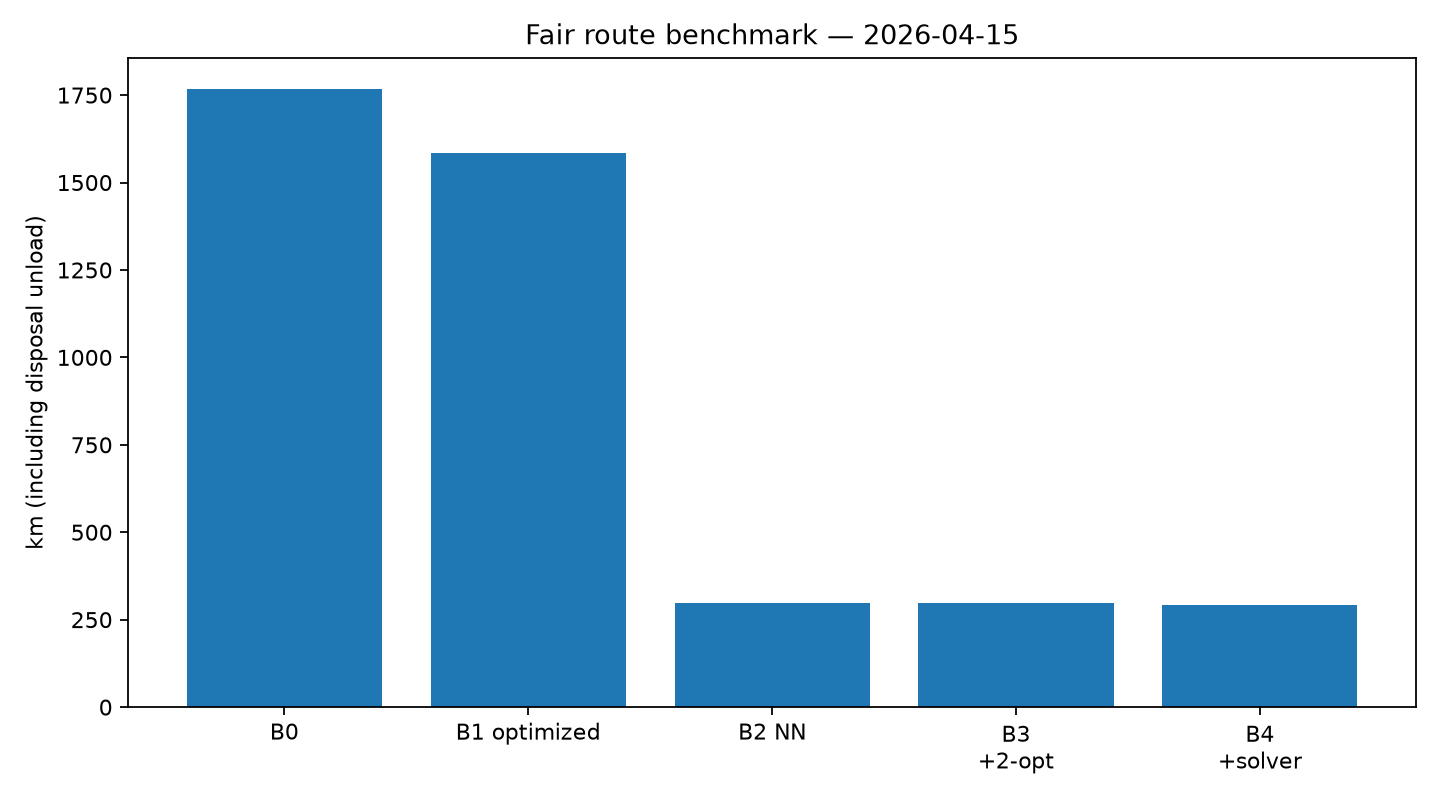
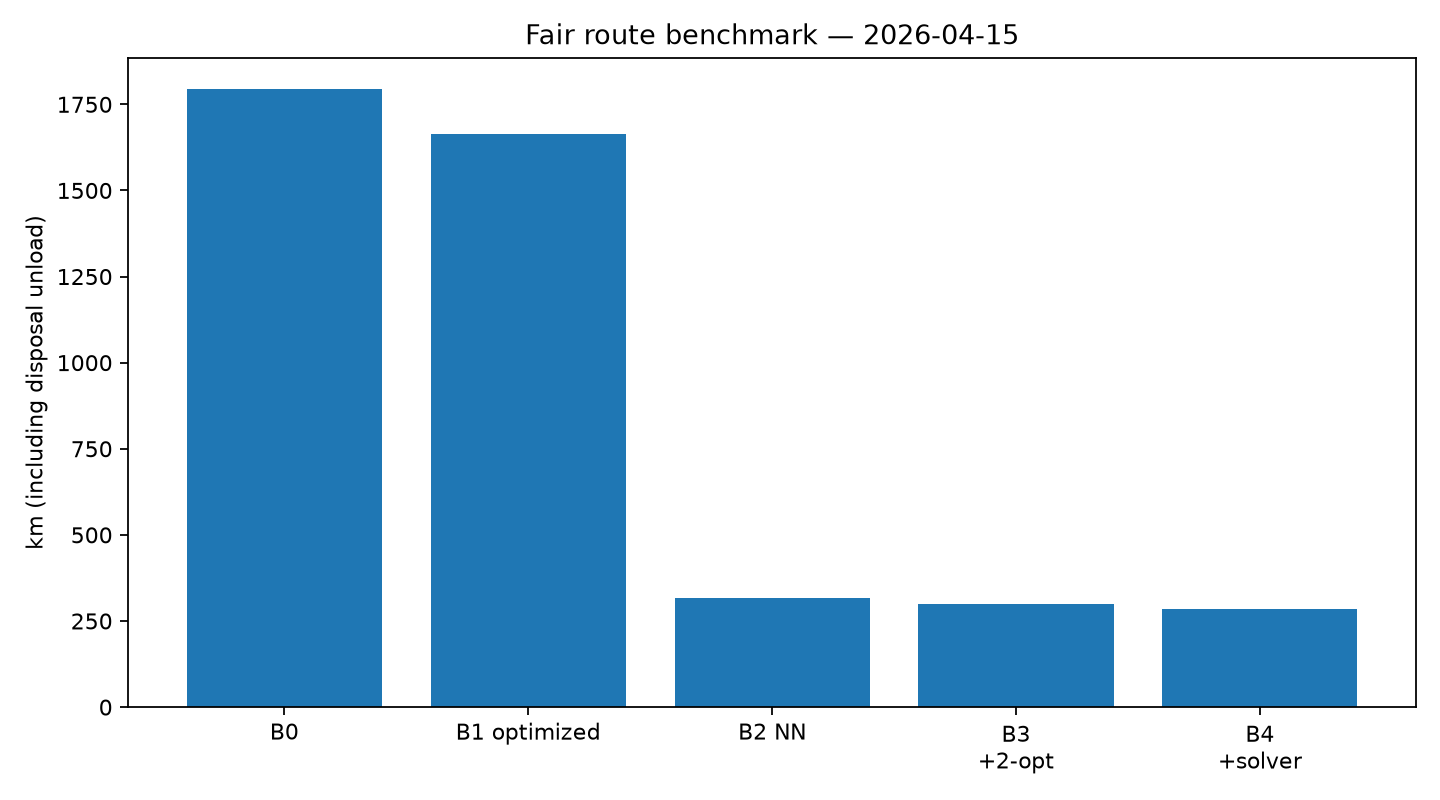
fix(benchmark): same density per colour and 26 m3 volume limit as routing
Round packing and the OR-Tools model now respect vehicle volume as well
as weight, and mass uses the per-colour density, so the benchmark rules
match routing.build_route. Results regenerated for 4 dates x 3 seeds.

diff --git a/scripts/benchmark.py b/scripts/benchmark.py
@@ -14,7 +14,13 @@ import numpy as np
 import pandas as pd
 
 from prezero import features, locations, scoring
-from prezero.routing import OperationalConfig, haversine_km, road_distance_km, drive_time_min
+from prezero.routing import (
+    OperationalConfig,
+    density_for,
+    drive_time_min,
+    haversine_km,
+    road_distance_km,
+)
 
 try:
     from ortools.constraint_solver import pywrapcp, routing_enums_pb2
@@ -33,12 +39,13 @@ def _physical_sites(scored: pd.DataFrame, locs: pd.DataFrame, cfg: OperationalCo
     """Aggregate all material IDs sharing a coordinate into one physical stop."""
     work = scored.copy()
     work["critical"] = work.get("critical", work["score"] >= 0.7).astype(bool)
-    work["mass_kg"] = (
-        work.get("est_fill_level", work["last_fill_level"]).astype(float) / 100.0
+    work["volume_m3"] = (
+        work.get("est_fill_level", work["last_fill_level"]).astype(float).clip(lower=0.0) / 100.0
         * cfg.container_volume_m3
-        * cfg.density_kg_per_m3
     )
+    work["mass_kg"] = work["volume_m3"] * work["material_type"].map(lambda m: density_for(cfg, m))
     work["critical_mass_kg"] = work["mass_kg"].where(work["critical"], 0.0)
+    work["critical_volume_m3"] = work["volume_m3"].where(work["critical"], 0.0)
     merged = work.merge(locs[["Location_id", "lat", "lon"]], on="Location_id", how="inner")
     merged["lat"] = merged["lat"].round(6)
     merged["lon"] = merged["lon"].round(6)
@@ -52,6 +59,8 @@ def _physical_sites(scored: pd.DataFrame, locs: pd.DataFrame, cfg: OperationalCo
             score=("score", "max"),
             mass_kg=("mass_kg", "sum"),
             critical_mass_kg=("critical_mass_kg", "sum"),
+            volume_m3=("volume_m3", "sum"),
+            critical_volume_m3=("critical_volume_m3", "sum"),
         )
         .sort_values(["id", "lat", "lon"])
         .reset_index(drop=True)
@@ -123,6 +132,7 @@ def _solver_order(sites: pd.DataFrame, cfg: OperationalConfig) -> list[int] | No
     vehicles = max(
         1,
         math.ceil(float(sites["critical_mass_kg"].sum()) / cfg.vehicle_max_weight_kg),
+        math.ceil(float(sites["critical_volume_m3"].sum()) / cfg.vehicle_max_volume_m3),
         math.ceil(len(sites) * (cfg.stop_setup_min + cfg.lift_time_per_bin_min) / (cfg.max_shift_hours * 60)),
     )
     manager = pywrapcp.RoutingIndexManager(n, vehicles, 0)
@@ -137,6 +147,12 @@ def _solver_order(sites: pd.DataFrame, cfg: OperationalConfig) -> list[int] | No
     demands = [0] + [round(float(x)) for x in sites["critical_mass_kg"]]
     demand_cb = routing.RegisterUnaryTransitCallback(lambda i: demands[manager.IndexToNode(i)])
     routing.AddDimensionWithVehicleCapacity(demand_cb, 0, [round(cfg.vehicle_max_weight_kg)] * vehicles, True, "Weight")
+    # Volume in litres so the solver works with integers.
+    volumes = [0] + [round(float(x) * 1000) for x in sites["critical_volume_m3"]]
+    volume_cb = routing.RegisterUnaryTransitCallback(lambda i: volumes[manager.IndexToNode(i)])
+    routing.AddDimensionWithVehicleCapacity(
+        volume_cb, 0, [round(cfg.vehicle_max_volume_m3 * 1000)] * vehicles, True, "Volume"
+    )
     service = [0] + [
         round(cfg.stop_setup_min + max(1, int(x)) * cfg.lift_time_per_bin_min)
         for x in sites["critical_bins"]
@@ -183,16 +199,20 @@ def _plan(order: list[int], sites: pd.DataFrame, cfg: OperationalConfig) -> dict
     rounds: list[list[int]] = []
     current: list[int] = []
     weight = 0.0
+    volume = 0.0
     for idx in order:
         mass = float(sites.at[idx, "critical_mass_kg"])
+        vol = float(sites.at[idx, "critical_volume_m3"])
         if current and (
             weight + mass > cfg.vehicle_max_weight_kg
+            or volume + vol > cfg.vehicle_max_volume_m3
             or projected_hours(current + [idx]) > cfg.max_shift_hours
         ):
             rounds.append(current)
-            current, weight = [], 0.0
+            current, weight, volume = [], 0.0, 0.0
         current.append(idx)
         weight += mass
+        volume += vol
     if current:
         rounds.append(current)
 
@@ -232,7 +252,9 @@ def run_case(date: str, seed: int, cfg: OperationalConfig) -> list[dict[str, Any
     critical = sites[sites.critical].copy().reset_index(drop=True)
     # Status quo empties every bin: load all mass and lift all bins, not only critical ones.
     all_sites = sites.assign(
-        critical_mass_kg=sites["mass_kg"], critical_bins=sites["bins"]
+        critical_mass_kg=sites["mass_kg"],
+        critical_volume_m3=sites["volume_m3"],
+        critical_bins=sites["bins"],
     ).reset_index(drop=True)
     definitions = [
         ("B0 status quo", all_sites, lambda: list(all_sites.sort_values("id").index)),
@@ -304,7 +326,7 @@ Coordinates are rounded to 6 decimals and grouped before routing. At one point, 
 material bins are one stop and their masses are summed. On 2026-04-15 / seed 42 this leaves
 **{int(april.iloc[0].real_stops)} real stops** overall and **{int(april[april.variant.str.startswith('B2')].iloc[0].stops)} critical stops**,
 from **{int(april.iloc[0].critical_ids)} critical IDs**. Every route uses `OperationalConfig`:
-11 t vehicle capacity, 8 h shift, yard start/end, and unloading at `disposal_depot`.
+11 t and 26 m³ vehicle capacity, 8 h shift, yard start/end, and unloading at `disposal_depot`.
 
 ## 2026-04-15 table (seed 42)
 

diff --git a/docs/BENCHMARK.md b/docs/BENCHMARK.md
@@ -9,17 +9,17 @@ Coordinates are rounded to 6 decimals and grouped before routing. At one point, 
 material bins are one stop and their masses are summed. On 2026-04-15 / seed 42 this leaves
 **121 real stops** overall and **73 critical stops**,
 from **108 critical IDs**. Every route uses `OperationalConfig`:
-11 t vehicle capacity, 8 h shift, yard start/end, and unloading at `disposal_depot`.
+11 t and 26 m³ vehicle capacity, 8 h shift, yard start/end, and unloading at `disposal_depot`.
 
 ## 2026-04-15 table (seed 42)
 
 | variant                   |   stops |      km |   vehicles |   rounds |      h |      t | nn_kept   |   runtime_s |
 |:--------------------------|--------:|--------:|-----------:|---------:|-------:|-------:|:----------|------------:|
-| B0 status quo             |     121 | 1768.84 |         94 |       94 | 169.57 | 808.22 | False     |       0.005 |
-| B1 status quo optimized   |     121 | 1584.92 |         93 |       93 | 161.88 | 808.22 | False     |       0.142 |
-| B2 demand-driven NN       |      73 |  297.3  |         13 |       13 |  24.56 | 125.12 | False     |       0.058 |
-| B3 demand-driven + 2-opt  |      73 |  297.3  |         13 |       13 |  24.56 | 125.12 | True      |       0.166 |
-| B4 demand-driven + solver |      73 |  292.84 |         12 |       12 |  24.05 | 125.12 | False     |       5.073 |
+| B0 status quo             |     121 | 1795.91 |         95 |       95 | 170.99 | 808.22 | False     |       0.005 |
+| B1 status quo optimized   |     121 | 1662.7  |         98 |       98 | 166.66 | 808.22 | False     |       0.142 |
+| B2 demand-driven NN       |      73 |  316.31 |         14 |       14 |  25.65 | 125.12 | False     |       0.056 |
+| B3 demand-driven + 2-opt  |      73 |  299.65 |         14 |       14 |  24.99 | 125.12 | False     |       0.158 |
+| B4 demand-driven + solver |      73 |  285.79 |         13 |       13 |  24.1  | 125.12 | False     |       5.072 |
 
 Runtime is measured per route calculation; solver time is capped at 30 seconds. B0 is the
 paper-list order (ID sort), B1 is all-site nearest neighbor, B2 is critical-only nearest
@@ -28,9 +28,9 @@ under 11 t and includes a disposal-depot unload and return.
 
 ## Effects
 
-* **Routing effect:** B2 → the best of B3/B4 saves **1.5%** of B2 distance with the same critical stops.
-* **Demand effect:** B1 → B2 saves **81.2%** by removing non-critical physical sites while keeping nearest neighbor.
-* **Overall effect:** B0 → the best variant saves **83.4%**.
+* **Routing effect:** B2 → the best of B3/B4 saves **9.6%** of B2 distance with the same critical stops.
+* **Demand effect:** B1 → B2 saves **81.0%** by removing non-critical physical sites while keeping nearest neighbor.
+* **Overall effect:** B0 → the best variant saves **84.1%**.
 
 ## Robustness (all dates × seeds)
 
@@ -38,11 +38,11 @@ Mean and min–max spread are shown for distance, hours, and runtime:
 
 | variant                   |   km_mean |   km_min |   km_max |   h_mean |   runtime_mean |   nn_kept_cases |   cases |   km_spread |
 |:--------------------------|----------:|---------:|---------:|---------:|---------------:|----------------:|--------:|------------:|
-| B0 status quo             |  1402.13  |  1125.95 |  1776.81 | 143.463  |     0.00683333 |               0 |      12 |      650.86 |
-| B1 status quo optimized   |  1037.52  |   628.85 |  1584.92 | 128.907  |     0.145167   |               0 |      12 |      956.07 |
-| B2 demand-driven NN       |   155.423 |    18.8  |   330.92 |  12.0592 |     0.0255     |               0 |      12 |      312.12 |
-| B3 demand-driven + 2-opt  |   147.981 |    18.8  |   313.41 |  11.735  |     0.0695     |               2 |      12 |      294.61 |
-| B4 demand-driven + solver |   146.313 |    18.8  |   298.55 |  11.5842 |     5.03425    |               1 |      12 |      279.75 |
+| B0 status quo             |  1426.15  |  1159.7  |  1809.88 | 145.202  |        0.00725 |               0 |      12 |      650.18 |
+| B1 status quo optimized   |  1078.32  |   667.16 |  1662.7  | 131.372  |        0.144   |               0 |      12 |      995.54 |
+| B2 demand-driven NN       |   158.03  |    18.8  |   334.18 |  12.3025 |        0.02475 |               0 |      12 |      315.38 |
+| B3 demand-driven + 2-opt  |   154.677 |    18.8  |   334.18 |  12.1692 |        0.0675  |               3 |      12 |      315.38 |
+| B4 demand-driven + solver |   149.166 |    18.8  |   303.18 |  11.865  |        5.03375 |               2 |      12 |      284.38 |
 
 ## Assumptions
 
